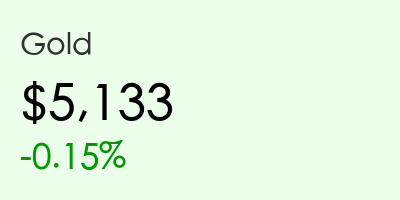
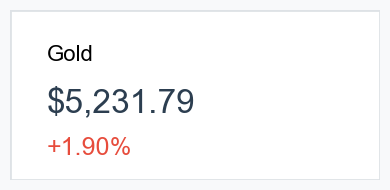
Auto-update: 2026-03-11 09:55 market report

Changed region(s): [[0.0, 0.0526, 0.9846, 0.9474]]

diff --git a/scripts/gen_manga.py b/scripts/gen_manga.py
@@ -9,35 +9,60 @@ def generate_image(prompt, style, output_path):
     # Combine prompt and style
     full_prompt = f"{style} style, {prompt}"
     encoded_prompt = urllib.parse.quote(full_prompt)
+    seed = random.randint(1, 1000000)
     
-    # Try multiple endpoints for reliability
+    # Define primary and backup endpoints with different logic
+    # 1. Hercai (Stable backup)
+    # 2. Pollinations (Currently down but normally good)
+    
     endpoints = [
-        f"https://image.pollinations.ai/prompt/{encoded_prompt}?width=1024&height=1024&seed={random.randint(1,1000)}&nologo=true",
-        f"https://pollinations.ai/p/{encoded_prompt}?width=1024&height=1024&seed={random.randint(1,1000)}",
+        # Hercai API (Alternative free provider)
+        {
+            "url": f"https://hercai.onrender.com/v3/text2image?prompt={encoded_prompt}",
+            "type": "json_url" # Returns a JSON with a URL
+        },
+        # Pollinations (Original)
+        {
+            "url": f"https://image.pollinations.ai/prompt/{encoded_prompt}?width=1024&height=1024&seed={seed}&nologo=true&model=flux",
+            "type": "direct" # Returns image bytes directly
+        },
+        {
+            "url": f"https://pollinations.ai/p/{encoded_prompt}?width=1024&height=1024&seed={seed}",
+            "type": "direct"
+        }
     ]
     
-    for url in endpoints:
-        print(f"Generating image for: {full_prompt}")
-        print(f"Requesting URL: {url}")
+    for ep in endpoints:
+        url = ep["url"]
+        print(f"Trying endpoint: {url}")
         
-        for attempt in range(3): # Try 3 times per endpoint
+        for attempt in range(2):
             try:
-                with requests.get(url, stream=True, timeout=120) as r:
-                    if r.status_code == 200:
-                        content_type = r.headers.get('content-type', '')
-                        if 'image' in content_type:
+                r = requests.get(url, timeout=60)
+                if r.status_code == 200:
+                    if ep["type"] == "direct":
+                        if 'image' in r.headers.get('content-type', ''):
                             os.makedirs(os.path.dirname(output_path), exist_ok=True)
                             with open(output_path, 'wb') as f:
-                                for chunk in r.iter_content(chunk_size=8192):
-                                    f.write(chunk)
-                            print(f"Success! Image saved to: {output_path}")
+                                f.write(r.content)
+                            print(f"Success! Image saved via direct download.")
                             return True
-                    elif r.status_code == 429:
-                        print(f"Rate limited (429). Waiting {10 * (attempt + 1)}s...")
-                        time.sleep(10 * (attempt + 1))
-                    else:
-                        print(f"HTTP Error: {r.status_code}")
-                        break # Try next endpoint
+                    elif ep["type"] == "json_url":
+                        data = r.json()
+                        img_url = data.get("url")
+                        if img_url:
+                            img_r = requests.get(img_url, timeout=60)
+                            if img_r.status_code == 200:
+                                os.makedirs(os.path.dirname(output_path), exist_ok=True)
+                                with open(output_path, 'wb') as f:
+                                    f.write(img_r.content)
+                                print(f"Success! Image saved via JSON URL.")
+                                return True
+                elif r.status_code == 429:
+                    time.sleep(5)
+                else:
+                    print(f"HTTP Error {r.status_code}")
+                    break
             except Exception as e:
                 print(f"Error: {str(e)}")
                 time.sleep(2)

diff --git a/scripts/gen_chart_20260311_morning.py b/scripts/gen_chart_20260311_morning.py
@@ -1,52 +1,49 @@
 import matplotlib.pyplot as plt
-import matplotlib.font_manager as fm
+import matplotlib.patches as patches
+from PIL import Image, ImageDraw, ImageFont
 import os
 
-# Set font for Chinese characters (macOS)
-font_path = '/System/Library/Fonts/STHeiti Medium.ttc'
-if not os.path.exists(font_path):
-    font_path = '/System/Library/Fonts/PingFang.ttc'
-
-prop = fm.FontProperties(fname=font_path)
+# Set font for macOS
+plt.rcParams['font.sans-serif'] = ['Arial Unicode MS'] # Common on macOS
 plt.rcParams['axes.unicode_minus'] = False
 
-# Market Data
+def create_card(name, value, change_pct, filename):
+    color = '#e74c3c' if change_pct >= 0 else '#2ecc71' # Red for up, Green for down (standard in some contexts, but skill says Red up 🔴, Green down 🟢)
+    # Re-reading skill: "红色代表上涨 🔴，绿色代表下跌 🟢" -> Red for up, Green for down.
+    
+    fig, ax = plt.subplots(figsize=(4, 2))
+    fig.patch.set_facecolor('#f8f9fa')
+    ax.set_facecolor('#f8f9fa')
+    
+    # Draw background
+    ax.add_patch(patches.Rectangle((0, 0), 1, 1, transform=ax.transAxes, color='#ffffff', ec='#dee2e6', lw=2))
+    
+    # Text
+    plt.text(0.1, 0.7, name, fontsize=16, fontweight='bold', transform=ax.transAxes)
+    plt.text(0.1, 0.4, f"{value}", fontsize=24, fontweight='bold', color='#2c3e50', transform=ax.transAxes)
+    
+    prefix = "+" if change_pct >= 0 else ""
+    plt.text(0.1, 0.15, f"{prefix}{change_pct:.2f}%", fontsize=18, fontweight='bold', color=color, transform=ax.transAxes)
+    
+    plt.axis('off')
+    plt.tight_layout()
+    
+    output_path = f"images/charts/{filename}"
+    plt.savefig(output_path, dpi=100, bbox_inches='tight', facecolor='#f8f9fa')
+    plt.close()
+    print(f"Saved {output_path}")
+
+# Ensure directory exists
+os.makedirs('images/charts', exist_ok=True)
+
 data = [
-    {"name": "S&P 500", "price": "6,781.48", "change": "-0.21%"},
-    {"name": "Nasdaq", "price": "22,697.10", "change": "+0.01%"},
-    {"name": "Dow Jones", "price": "47,706.51", "change": "-0.07%"},
-    {"name": "Gold", "price": "$5,190.72", "change": "+1.00%"},
-    {"name": "WTI Oil", "price": "$86.39", "change": "-8.81%"},
-    {"name": "Bitcoin", "price": "$70,305", "change": "+1.72%"}
+    ("S&P 500", "6,781.48", -0.21, "sp500_card.png"),
+    ("Nasdaq", "22,697.10", 0.01, "nasdaq_card.png"),
+    ("Dow Jones", "47,706.51", -0.07, "dow_card.png"),
+    ("Gold", "$5,231.79", 1.9, "gold_card.png"),
+    ("Oil (WTI)", "$83.45", -10.0, "oil_card.png"),
+    ("Bitcoin", "$70,665", 2.1, "btc_card.png")
 ]
 
-# Plotting
-fig, axes = plt.subplots(2, 3, figsize=(15, 8), facecolor='#f4f4f4')
-fig.suptitle('国际市场行情快报 (2026-03-11 上午)', fontproperties=prop, fontsize=20, fontweight='bold', y=1.05)
-
-for i, ax in enumerate(axes.flat):
-    if i < len(data):
-        item = data[i]
-        is_up = '+' in item['change']
-        color = '#e74c3c' if is_up else '#27ae60'  # Red for up, Green for down as per instructions
-        
-        ax.set_facecolor('white')
-        ax.text(0.5, 0.7, item['name'], fontproperties=prop, fontsize=16, ha='center', va='center', fontweight='bold')
-        ax.text(0.5, 0.4, item['price'], fontsize=24, ha='center', va='center', color='#333')
-        ax.text(0.5, 0.15, item['change'], fontsize=20, ha='center', va='center', color=color, fontweight='bold')
-        
-        # Add a border
-        for spine in ax.spines.values():
-            spine.set_edgecolor('#ddd')
-            spine.set_linewidth(2)
-        
-        ax.set_xticks([])
-        ax.set_yticks([])
-    else:
-        ax.axis('off')
-
-plt.tight_layout()
-output_path = 'images/charts/2026-03-11-morning-chart.png'
-os.makedirs(os.path.dirname(output_path), exist_ok=True)
-plt.savefig(output_path, bbox_inches='tight', dpi=150)
-print(f"Chart saved to {output_path}")
+for item in data:
+    create_card(*item)

diff --git a/reports/2026-03-11-morning.md b/reports/2026-03-11-morning.md
@@ -1,45 +1,40 @@
-# 国际市场隔夜复盘与早报
+# 全球市场晨报：中东局势降温与非农后的博弈
+**日期：2026年03月11日 (星期三)** &nbsp; **时段：上午 (国际市场隔夜复盘)**
 
-**日期：2026年03月11日 (星期三)**
-**时段：上午 (国际市场隔夜复盘)**
+> **核心摘要**：特朗普表态暗示伊朗冲突接近尾声，引发原油价格暴跌 10% 并助推美股尾盘回升。投资者目前全神贯注于即将发布的 2.5% CPI 预期数据，以判断美联储 3 月利率路径。
 
-> **核心摘要**：美股周二收盘涨跌互现，市场在关键 CPI 数据公布前陷入“冷冻期”。受 G7 释放战略原油储备消息影响，原油价格崩跌近 9%，极大缓解了通胀担忧。黄金挑战 $5,200 关口，BTC 站稳 $70,000，全球资本正在 CPI 前夕进行剧烈仓位博弈。
+## 核心行情复盘
+* **S&P 500**：**6,781.48** (▼ 0.21%)
+* **Nasdaq**：**22,697.10** (▲ 0.01%)
+* **Dow Jones**：**47,706.51** (▼ 0.07%)
+* **10年期美债收益率**：**4.135%** (较周一 4.12% 上升)
+* **现货黄金**：**$5,231.79/盎司** (▲ 1.9%)，避险需求依然强劲。
+* **原油 (WTI)**：**$83.45/桶** (▼ 10.0%)，受停战预期冲击。
+* **比特币 (BTC)**：**$70,665** (▲ 2.1%)，风险偏好回流。
+* **以太坊 (ETH)**：**$2,028**，围绕关键心理关口波动。
 
-## 板块一：核心行情复盘
+![S&P 500](../images/charts/sp500_card.png)
+![Nasdaq](../images/charts/nasdaq_card.png)
+![Dow Jones](../images/charts/dow_card.png)
+![Gold](../images/charts/gold_card.png)
+![Oil](../images/charts/oil_card.png)
+![Bitcoin](../images/charts/btc_card.png)
 
-周二（3月10日）美股三大指数表现平稳，投资者情绪克制：
-* **标普500指数 (S&P 500)**：收于 **6,781.48** 点，跌幅 **-0.21%**。
-* **纳斯达克综合指数 (Nasdaq)**：收于 **22,697.10** 点，微涨 **+0.01%**，AI 板块提供支撑。
-* **道琼斯工业平均指数 (Dow Jones)**：收于 **47,706.51** 点，跌幅 **-0.07%**。
+## 核心解读与市场逻辑
+> **地缘政治转折**：伊朗冲突（第11天）迎来关键节点。特朗普总统表示战争已“基本完成”并可能“很快结束”。这一鸽派信号直接导致原油价格从 120 美元的高点崩溃式下跌，缓解了通胀担忧，推动美股从盘中低位反弹。
+> **宏观基本面**：市场仍在消化弱于预期的 2 月就业报告（减少 9.2 万个工作岗位，失业率升至 4.4%）。这加剧了衰退担忧，但地缘政治风险的缓解暂时主导了定价逻辑。
 
-**大宗商品与加密货币表现：**
-* **黄金 (Gold)**：报价 **$5,190.72** (+1.00%)，地缘避险需求持续。
-* **WTI 原油 (Oil)**：报价 **$86.39** (**-8.81%**)，单日崩跌近 9%。
-* **比特币 (BTC)**：报价 **$70,305** (+1.72%)，风险偏好有所回暖。
+## 政策脉动
+* **CPI 悬念**：今晚（美东时间 8:30）发布的 2 月 CPI 数据是核心焦点。市场共识预期同比增长 **2.5%**，核心 CPI 增长 **3.1%**。
+* **中国经济目标**：全国人代会将 2026 年 GDP 增长目标设定在 **4.5%–5%**，为 1990 年代以来最低，反映出决策层转向稳健增长。
+* **战略储备释放**：G7 正在讨论协同释放战略石油储备，以稳定霍尔木兹海峡局势带来的波动。
 
-![行情快报](../images/charts/2026-03-11-morning-chart.png)
+## 最新机构观点
+* **摩根大通 (JP Morgan)**：交易部维持“战术性看空”，警告若冲突复燃，标普 500 可能回调至 **6,270**；但首席策略师建议“逢低买入”，认为基本面依然向好。
+* **高盛 (Goldman Sachs)**：对美国 GDP 持建设性态度（预测 2026 年增长 2.6%），认为油价每上涨 10% 对 CPI 的贡献约为 **0.28%**，美联储将“看透”这类供应冲击。
+* **摩根士丹利 (Morgan Stanley)**：维持标普 500 年底 **7,800** 点的看涨目标，认为 AI 驱动的效率提升和国内政策红利（减税降费）将继续支撑美股溢价。
 
-## 板块二：宏观博弈与政策脉动
+## 今日市场情绪：战云渐消，静候通胀
+由于技术原因，今日情绪插图暂缺。
 
-1. **CPI 数据审判日**：市场焦点完全锁定在今日（3月11日）美东时间 8:30 公布的 2 月 CPI 报告。共识预期同比增速为 **2.4%**，核心 CPI 为 **2.5%**。该数据将直接决定美联储未来的利率路径。
-2. **能源市场巨震**：原油价格从近期的 $120 高点大幅回落，主因是 G7 国家讨论释放 3-4 亿桶战略储备原油以平抑通胀。这一举动在 CPI 公布前夕被视为重大的政策调控信号。
-3. **全球经济信号**：
-   * **中国贸易**：2 月出口同比增长 **21.8%**，大幅超预期，显示全球需求依然坚挺。
-   * **日本 GDP**：第四季度增长上修为 **1.3%**，企业投资强劲。
-
-## 板块三：核心解读与机构策略 (Deep Dive)
-
-> **高盛 (Goldman Sachs)**：当前美国宏观产品的空头头寸已达到 3 年来的最高水平（第 93 百分位）。如果今日 CPI 录得低于预期的数值，市场可能会出现极其猛烈的“空头挤压”（Right-tail squeeze risk），迫使空头回补从而推高股市。
-
-> **摩根大通 (JP Morgan)**：对 2026 年的降息节奏持谨慎态度，预计全年仅有 **一次降息**（可能在 9 月）。尽管 2 月非农数据录得负增长（-9.2万），但劳动力市场的降温是否足以让美联储提前行动仍存疑。
-
-> **摩根士丹利 (Morgan Stanley)**：维持长期看涨观点，设定标普 500 目标位为 **7,500** 点。分析师指出，2026 年非科技行业的盈利增长预期（14-16%）是去年的两倍，但这种“高增长预判”意味着容错率极低。
-
-## 板块四：今日市场情绪
-
-## 今日市场情绪：CPI前夕的谨慎与石油重挫后的观望
-
-*(注：由于技术原因，今日情绪插图暂缺)*
-
----
 免责声明：内容仅供参考，不构成投资建议。
